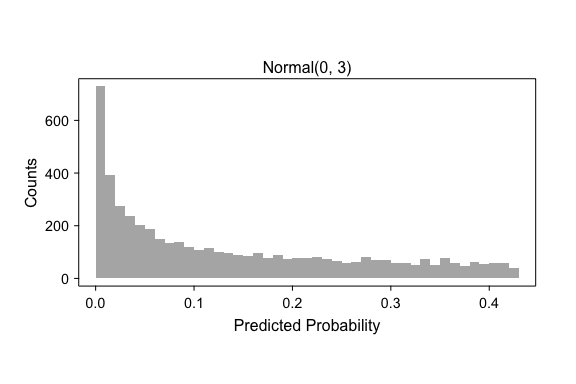
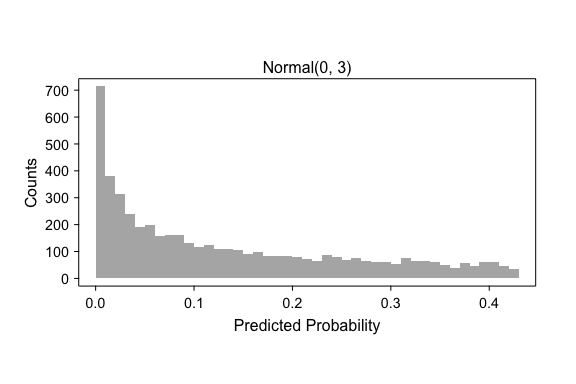
update README

diff --git a/README.md b/README.md
@@ -117,13 +117,13 @@ print(pppd_inf)
 ## Prior for gop_governor:	Normal(0, 3)
 ## 
 ##    percentile	predicted probability	first-difference	risk-ratio	
-##    1%		0			0.01			1.025			
-##    5%		0.002			0.046			1.119			
-##    25%		0.024			0.201			1.881			
-##    50%		0.093			0.336			4.614			
-##    75%		0.228			0.405			17.95			
-##    95%		0.383			0.426			180.3			
-##    99%		0.418			0.428			1393			
+##    1%		0			0.012			1.029			
+##    5%		0.002			0.05			1.131			
+##    25%		0.026			0.207			1.934			
+##    50%		0.092			0.337			4.679			
+##    75%		0.222			0.403			16.76			
+##    95%		0.379			0.426			177.5			
+##    99%		0.416			0.428			1569			
 ```
 
 That looks reasonable. There is an even chance of the probabilty of opposition falling above and below 0.09, which seems about right. Also, there is a 25% chance that the probability falls below 0.02, which also seems like a reasonable prior belief.
@@ -156,7 +156,7 @@ mean(pppd_inf$pr < 0.01)
 ```
 
 ```
-## [1] 0.147
+## [1] 0.1406
 ```
 
 ```r
@@ -164,7 +164,7 @@ mean(pppd_inf$pr < 0.001)
 ```
 
 ```
-## [1] 0.02379
+## [1] 0.02324
 ```
 
 From this we can see that there is a probability of 0.15 that less than 1% of Democratic governors oppose the expansion and a probability of 0.025 that less than 0.1% of Democratic governors oppose the expansion. Again, these seem reasonable.
@@ -195,3 +195,12 @@ plot(pppds, log_scale = TRUE)
 ```
 
 ![plot of chunk eth_skep](eth_skep2.png) 
+
+The notation looks a little sloppy, so we can use `compactr::eplot()`'s ability to use scientific notation by giving the argument `xticklab = "sci_notation"`, which `plot()` will pass to `compactr::eplot()`.
+
+
+```r
+plot(pppds, log_scale = TRUE, xticklab = "sci_notation")
+```
+
+![plot of chunk sci_notation](sci_notation.png) 
